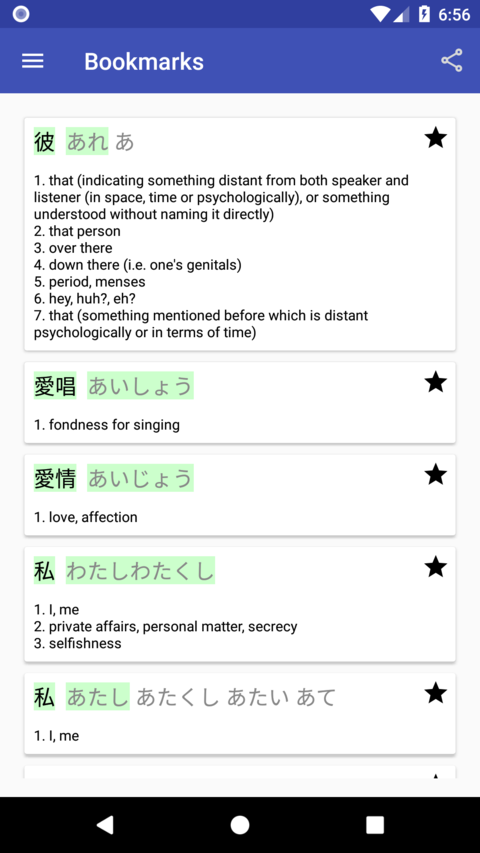
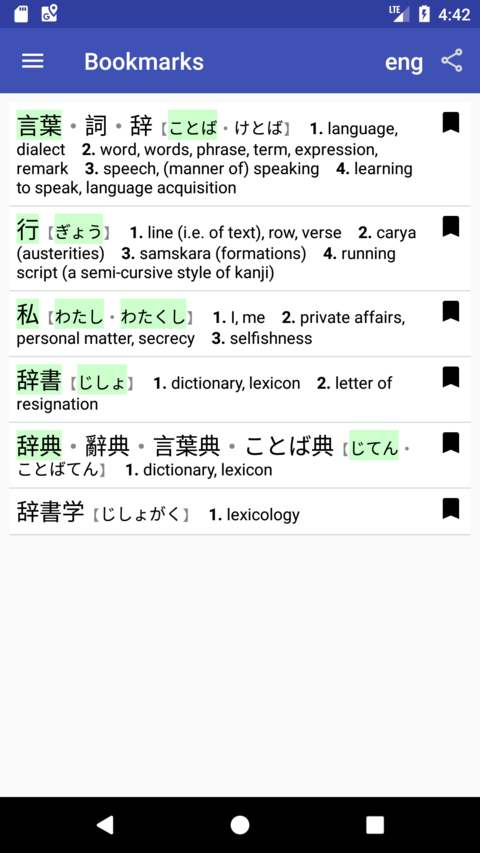
Commit for version 0.3.6 with compact interface

diff --git a/README.md b/README.md
@@ -7,6 +7,7 @@ Please see the [screenshots](/SCREENSHOTS.md).
 ## Features
 
 Sumatora has the following distinctive features:
+- multilingual search (supports English, German, Russian, Spanish, Dutch, Hungarian, Swedish, Slovenian and French)
 - very fast search and display of exact term/term at the beginning/term included 
 - bookmarks and bookmark export/import
 - search selected text in applications using contextual menu (or sharing).

diff --git a/SCREENSHOTS.md b/SCREENSHOTS.md
@@ -4,6 +4,9 @@
 
 ![](/screenshots/Screenshot_1551520549.png)
 
+## Multilingual search
+![](/screenshots/Screenshot_1561880402.png)
+
 ## Search from other apps
 
 ![](/screenshots/Screenshot_1551599195.png)
